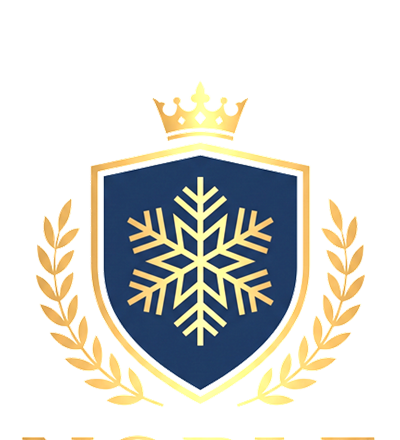
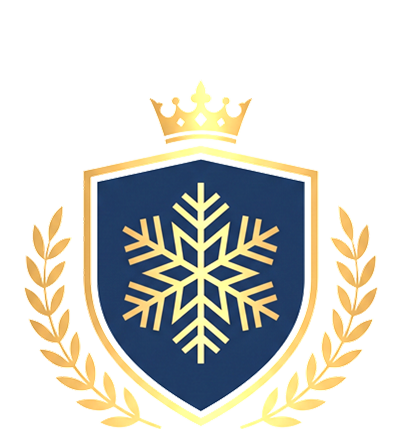
feat: problems page video hero, crest recut
Wine and technician clips (16x9 desktop, 9x16 mobile) behind the
problems hero via shared heroVideo helper. Crest recrop removes
clipped wordmark edge; favicon rebuilt to match.

Changed region(s): [[0.06, 0.1818, 0.96, 1.0], [0.81, 0.9697, 0.93, 1.0], [0.06, 0.9697, 0.12, 1.0]]

diff --git a/site/problems.html b/site/problems.html
@@ -38,13 +38,23 @@
   </div>
 </nav>
 
-<section class="tile tile-white">
-  <p class="eyebrow muted">Problems we fix</p>
-  <h1>If it is Sub-Zero or Wolf,<br>we have repaired it.</h1>
-  <p class="lead muted">27 years of factory certified service means there is no failure we are meeting for the first time.</p>
-  <div class="ctas">
-    <a class="btn btn-primary btn-hero" href="tel:[phone redacted]">Call [phone redacted]</a>
-    <a class="btn btn-ghost btn-hero" href="book.html">Book the $89 diagnostic</a>
+<section class="tile tile-hero">
+  <video class="hero-bg" autoplay muted loop playsinline preload="auto" poster="assets/media/problems-poster.jpg"></video>
+  <script>(function () {
+    var v = document.currentScript.previousElementSibling;
+    var mobile = window.matchMedia && window.matchMedia('(max-width: 833px)').matches;
+    if (mobile) { v.poster = 'assets/media/problems-poster-mobile.jpg'; }
+    v.src = mobile ? 'assets/media/problems-mobile.mp4' : 'assets/media/problems.mp4';
+  })();</script>
+  <div class="hero-scrim"></div>
+  <div class="hero-content">
+    <p class="eyebrow">Problems we fix</p>
+    <h1>If it is Sub-Zero or Wolf,<br>we have repaired it.</h1>
+    <p class="lead muted">27 years of factory certified service means there is no failure we are meeting for the first time.</p>
+    <div class="ctas">
+      <a class="btn btn-primary btn-hero" href="tel:[phone redacted]">Call [phone redacted]</a>
+      <a class="btn btn-ghost btn-hero" href="book.html">Book the $89 diagnostic</a>
+    </div>
   </div>
 </section>
 